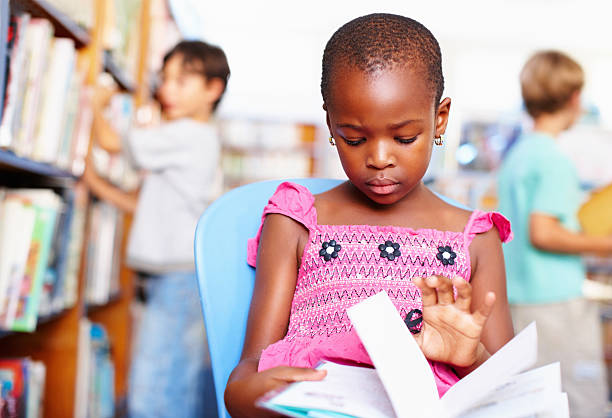
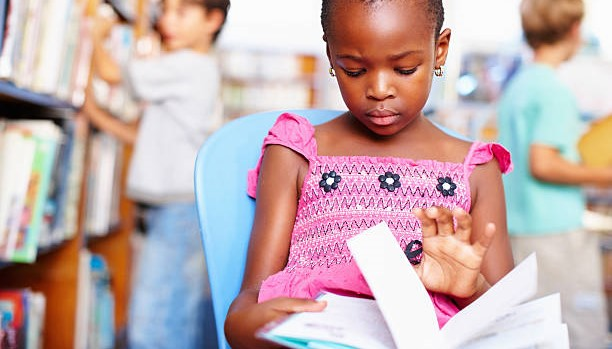
routes

diff --git a/kochlibrary/src/app/navigation/about/about.component.html b/kochlibrary/src/app/navigation/about/about.component.html
@@ -1,3 +1,45 @@
-<!-- <app-header></app-header> -->
-<p>about works!</p>
+<div class="container">
+
+    <carousel [(activeSlide)]="activeSlideIndex" class="carousel">
+        <slide *ngFor="let image of images; let i = index">
+          <div>
+              <img [src]="image.path" alt="Slide {{ i + 1 }}" height="600px">
+              <h2 class="overlay-text">{{image.text}}</h2>
+              <p class="overlay-txt">{{image.parag}}</p>
+          </div>  
+        </slide>
+      </carousel>
+      <mat-card class="backgroundfixed">
+        <mat-card-content>
+            <div class="">
+                <p class="overlazparagraphs">We have created a transformative space where children can escape the limitations of their circumstances, unlocking their potential and shaping a brighter future.</p>
+                <!-- <img src="../../../assets/kochflierbackground.png"> -->
+                <p class="overlazparagraphs">
+                    We believe that everyone can make a difference with their gift and influence those around them to do the same, by bearing witness and telling stories.We all have the power to make a difference and change the world.
+                </p>
+                <p class="overlazparagraphs">The library is planning to expand its outstanding educational and literacy services to meet the needs of our diverse and growing population. With your support, the Foundation can continue to assist with funding for important Library improvements.</p>
+            </div>
+
+            <div class="Piclayout" fxLayout="row" fxLayout.xs="column" fxLayoutGap="10px" fxFlexFill>
+                
+            <div fxFlex="50" class="centeralignment">
+                <img src="../../../assets/boy2.jpg" height="400px">
+            </div>
+            <div fxFlex="50" class="centeralignment">
+                <mat-card style="height: 300px;">
+                    <p>
+                        Thank You for Helping Us Make History! We have seen firsthand the amazing things that can happen when our community comes together to give back! 
+                        We are thankful for the support that the Library Foundation has received during our Gives and look forward to sharing our stories of impact.
+                    </p>
+                   
+                </mat-card>
+            </div>
+            </div>
+        </mat-card-content>
+
+      </mat-card>
+
+
+</div>
+
 <!-- <app-footer></app-footer> -->

diff --git a/kochlibrary/src/app/navigation/about/about.component.scss b/kochlibrary/src/app/navigation/about/about.component.scss
@@ -1,0 +1,63 @@
+@import "../../landingpage/landingpage.component.scss";
+
+.container{
+    // position: fixed;
+    // width: 100%;
+    // height: 100%;
+    // background: url('../../../assets/akinyiwithbook.jpg') center/cover no-repeat;
+    // z-index: 1;
+}
+.card{
+    // position: fixed;
+    // width: 100%;
+    // height: 60%;
+    // background: url('../../../assets/akinyiwithbook.jpg') center/cover no-repeat;
+    // z-index: 1;
+}
+
+.overlay-text{
+    top:15%;
+    left:45%;
+    transform: translate(-40%, -40%);
+    // color:rgb(22, 205, 221);
+    color: #052725;
+}
+.overlay-txt{
+    top: 25%;
+    left:45%;
+    transform: translate(-30%, -30%);
+    font-size: 36px;
+    color:rgb(113, 188, 185);
+    // color: rgb(153, 187, 186);
+    // color:cadetblue;
+}
+.Piclayout{
+    max-height: 500px;
+    // background:  url('../../../assets/') center/cover no-repeat;
+    background-color: azure;
+    display: flex;
+    justify-content: center;
+    align-items: center;
+
+    img{
+        // height: 40%;
+        width: 60%;
+        margin: 10% 10% 10% 20%;
+        // height: 300px;
+    }
+  
+}
+.centeralignment{
+    text-align: center;
+    margin: 10% 0 0 0 ;
+    p{
+        margin-top: 15%;
+    }
+}
+.backgroundfixed{
+    // position: relative;
+    // width: 100%;
+    // height: 60%;
+    // background: url('../../../assets/akinyiwithbook.jpg') no-repeat center;
+    // z-index: 1;
+}

diff --git a/kochlibrary/src/app/app-routing.module.ts b/kochlibrary/src/app/app-routing.module.ts
@@ -3,19 +3,16 @@ import { RouterModule, Routes } from '@angular/router';
 import { AboutComponent } from './navigation/about/about.component';
 import { ServicesComponent } from './navigation/services/services.component';
 import { LandingpageComponent } from './landingpage/landingpage.component';
+import { InvolvementComponent } from './involvement/involvement.component';
 
 const routes: Routes = [
   {
     path: 'home',
     component: LandingpageComponent,
-    // children: [     
-    //   { path: 'dashboard', loadChildren: './dashboard/dashboard.module#DashboardModule' },
-    //   // { path: 'drivers', loadChildren: './drivers/drivers.module#DriversModule' }
-    // ]
    },
   { path:'about', component: AboutComponent},
-  { path:'whatwedo', component: ServicesComponent},
-  { path: '', redirectTo: '/', pathMatch: 'full'}
+  { path:'whatwedo', component: ServicesComponent}
+  // { path: '', redirectTo: 'home', pathMatch: 'full'}
 ];
 
 @NgModule({

diff --git a/kochlibrary/src/app/header/header.component.html b/kochlibrary/src/app/header/header.component.html
@@ -8,7 +8,7 @@
           
         <nav id="menu-wrap" role="navigation" class="col-md-9">
             <ul class="sf-menu" id="fh5co-primary-menu">
-                <!-- <li routerLinkActive="'active'"><a routerLink="/home">H</a></li> -->
+                <li routerLinkActive="active" [routerLinkActiveOptions]="{exact:true}"><a routerLink="./home">Home</a></li>
                 <li routerLinkActive="active"><a routerLink="./about">About Us</a></li>
 
                 <li class="menu">
@@ -56,7 +56,7 @@
                 </li> -->
 
 
-                <li><a routerLink="/home">Blog</a></li>
+                <!-- <li><a routerLink="/home">Blog</a></li> -->
                 <li><a routerLink="/home">Contact</a></li>
                 <li><a class="" routerLink="/home">Donate Now</a></li>
                 

diff --git a/kochlibrary/src/app/navigation/about/about.component.ts b/kochlibrary/src/app/navigation/about/about.component.ts
@@ -8,5 +8,11 @@ import {Routes, RouterModule} from '@angular/router';
   styleUrls: ['./about.component.scss']
 })
 export class AboutComponent {
+  images = [
+    {path:'../../assets/aboutuspic3.jpg', text:'When in doubt Check a book out', parag: 'Helping others is a great thing to do. You can learn new things and have fun.'},
+    {path:'../../assets/aboutuspic2.jpg', text: 'Join Our Friendly Community', parag: ' Being of help makes you feel good too! How can you help today?'},
+    {path:'../../assets/aboutuspic3.jpg', text: 'No child labour in Korogocho', parag: 'A simple signature by you means the whole world to us'}
+  ];
 
+  activeSlideIndex = 0;
 }

diff --git a/kochlibrary/src/app/app.module.ts b/kochlibrary/src/app/app.module.ts
@@ -22,6 +22,8 @@ import { FooterComponent } from './footer/footer.component';
 import { AboutComponent } from './navigation/about/about.component';
 import { ServicesComponent } from './navigation/services/services.component';
 import { RouterModule } from '@angular/router';
+import { InvolvementComponent } from './involvement/involvement.component';
+
 
 @NgModule({
   declarations: [
@@ -31,7 +33,8 @@ import { RouterModule } from '@angular/router';
     AnswerdialogComponent,
     FooterComponent,
     AboutComponent,
-    ServicesComponent
+    ServicesComponent,
+    InvolvementComponent
   ],
   imports: [
     BrowserModule,

diff --git a/kochlibrary/src/app/landingpage/landingpage.component.html b/kochlibrary/src/app/landingpage/landingpage.component.html
@@ -1,9 +1,9 @@
-<app-header></app-header>
+<!-- <app-header></app-header> -->
 <div class="container">
     <carousel [(activeSlide)]="activeSlideIndex" class="carousel">
       <slide *ngFor="let image of images; let i = index">
         <div>
-            <img [src]="image.path" alt="Slide {{ i + 1 }}">
+            <img [src]="image.path" alt="Slide {{ i + 1 }}" height="600px">
             <h2 class="overlay-text">{{image.text}}</h2>
             <p class="overlay-txt">{{image.parag}}</p>
         </div>  
@@ -117,8 +117,6 @@
             </mat-accordion>
         </div>
     </div>
-
-
 
 </div>
 

diff --git a/kochlibrary/src/app/header/header.component.scss b/kochlibrary/src/app/header/header.component.scss
@@ -28,7 +28,7 @@
     font-size: 20px;
     font-weight: bold;
     text-decoration: none;
-    color: #052725; /* Adjust the color as needed */
+    color: #052725;
     line-height: normal;
   }
   
@@ -60,7 +60,7 @@
   
   #fh5co-primary-menu a {
     text-decoration: none;
-    color: #073c2c; /* Adjust the color as needed */
+    color: #073c2c;
     font-weight: bold;
     font-size: 16px;
   }
@@ -129,4 +129,10 @@
   // .sub-menu.show {
   //   display: block;
   // }
- 
+
+  .active{
+    color: #fff;
+    background-color: #73c1cf;
+    border-radius: 5px;
+    padding: 5px;
+  }

diff --git a/kochlibrary/src/app/header/header.component.ts b/kochlibrary/src/app/header/header.component.ts
@@ -4,8 +4,15 @@ import { Route, RouterLink, Router } from '@angular/router';
 @Component({
   selector: 'app-header',
   templateUrl: './header.component.html',
-  styleUrls: ['./header.component.scss']
+  styleUrls: ['./header.component.scss'],
+  styles: [`
+    .active-link {
+      color: #fff; 
+      font-weight: bold;
+    }
+  `]
 })
+
 export class HeaderComponent {
   isSubMenuVisible = false;
 
@@ -16,6 +23,4 @@ export class HeaderComponent {
   hideSubMenu() {
     this.isSubMenuVisible = false;
   }
-
-  
 }

diff --git a/kochlibrary/src/app/involvement/involvement.component.ts b/kochlibrary/src/app/involvement/involvement.component.ts
@@ -1,0 +1,10 @@
+import { Component } from '@angular/core';
+
+@Component({
+  selector: 'app-involvement',
+  templateUrl: './involvement.component.html',
+  styleUrls: ['./involvement.component.scss']
+})
+export class InvolvementComponent {
+
+}

diff --git a/kochlibrary/src/app/app.component.html b/kochlibrary/src/app/app.component.html
@@ -1,8 +1,8 @@
 <app-header></app-header>
 
-<app-landingpage></app-landingpage>
-
+<!-- <app-landingpage></app-landingpage> -->
 
 <router-outlet></router-outlet>
 
 <app-footer></app-footer>
+<!-- <router-outlet></router-outlet> -->

diff --git a/kochlibrary/src/app/landingpage/landingpage.component.scss b/kochlibrary/src/app/landingpage/landingpage.component.scss
@@ -4,8 +4,11 @@
     left: -20px;
     // right: -60px;
     // margin: ;
-    max-width: 100%;
+    width: 100%;
     z-index: 1;
+}
+.carousel{
+  height: 200px;
 }
 img{
     width: 100%;
